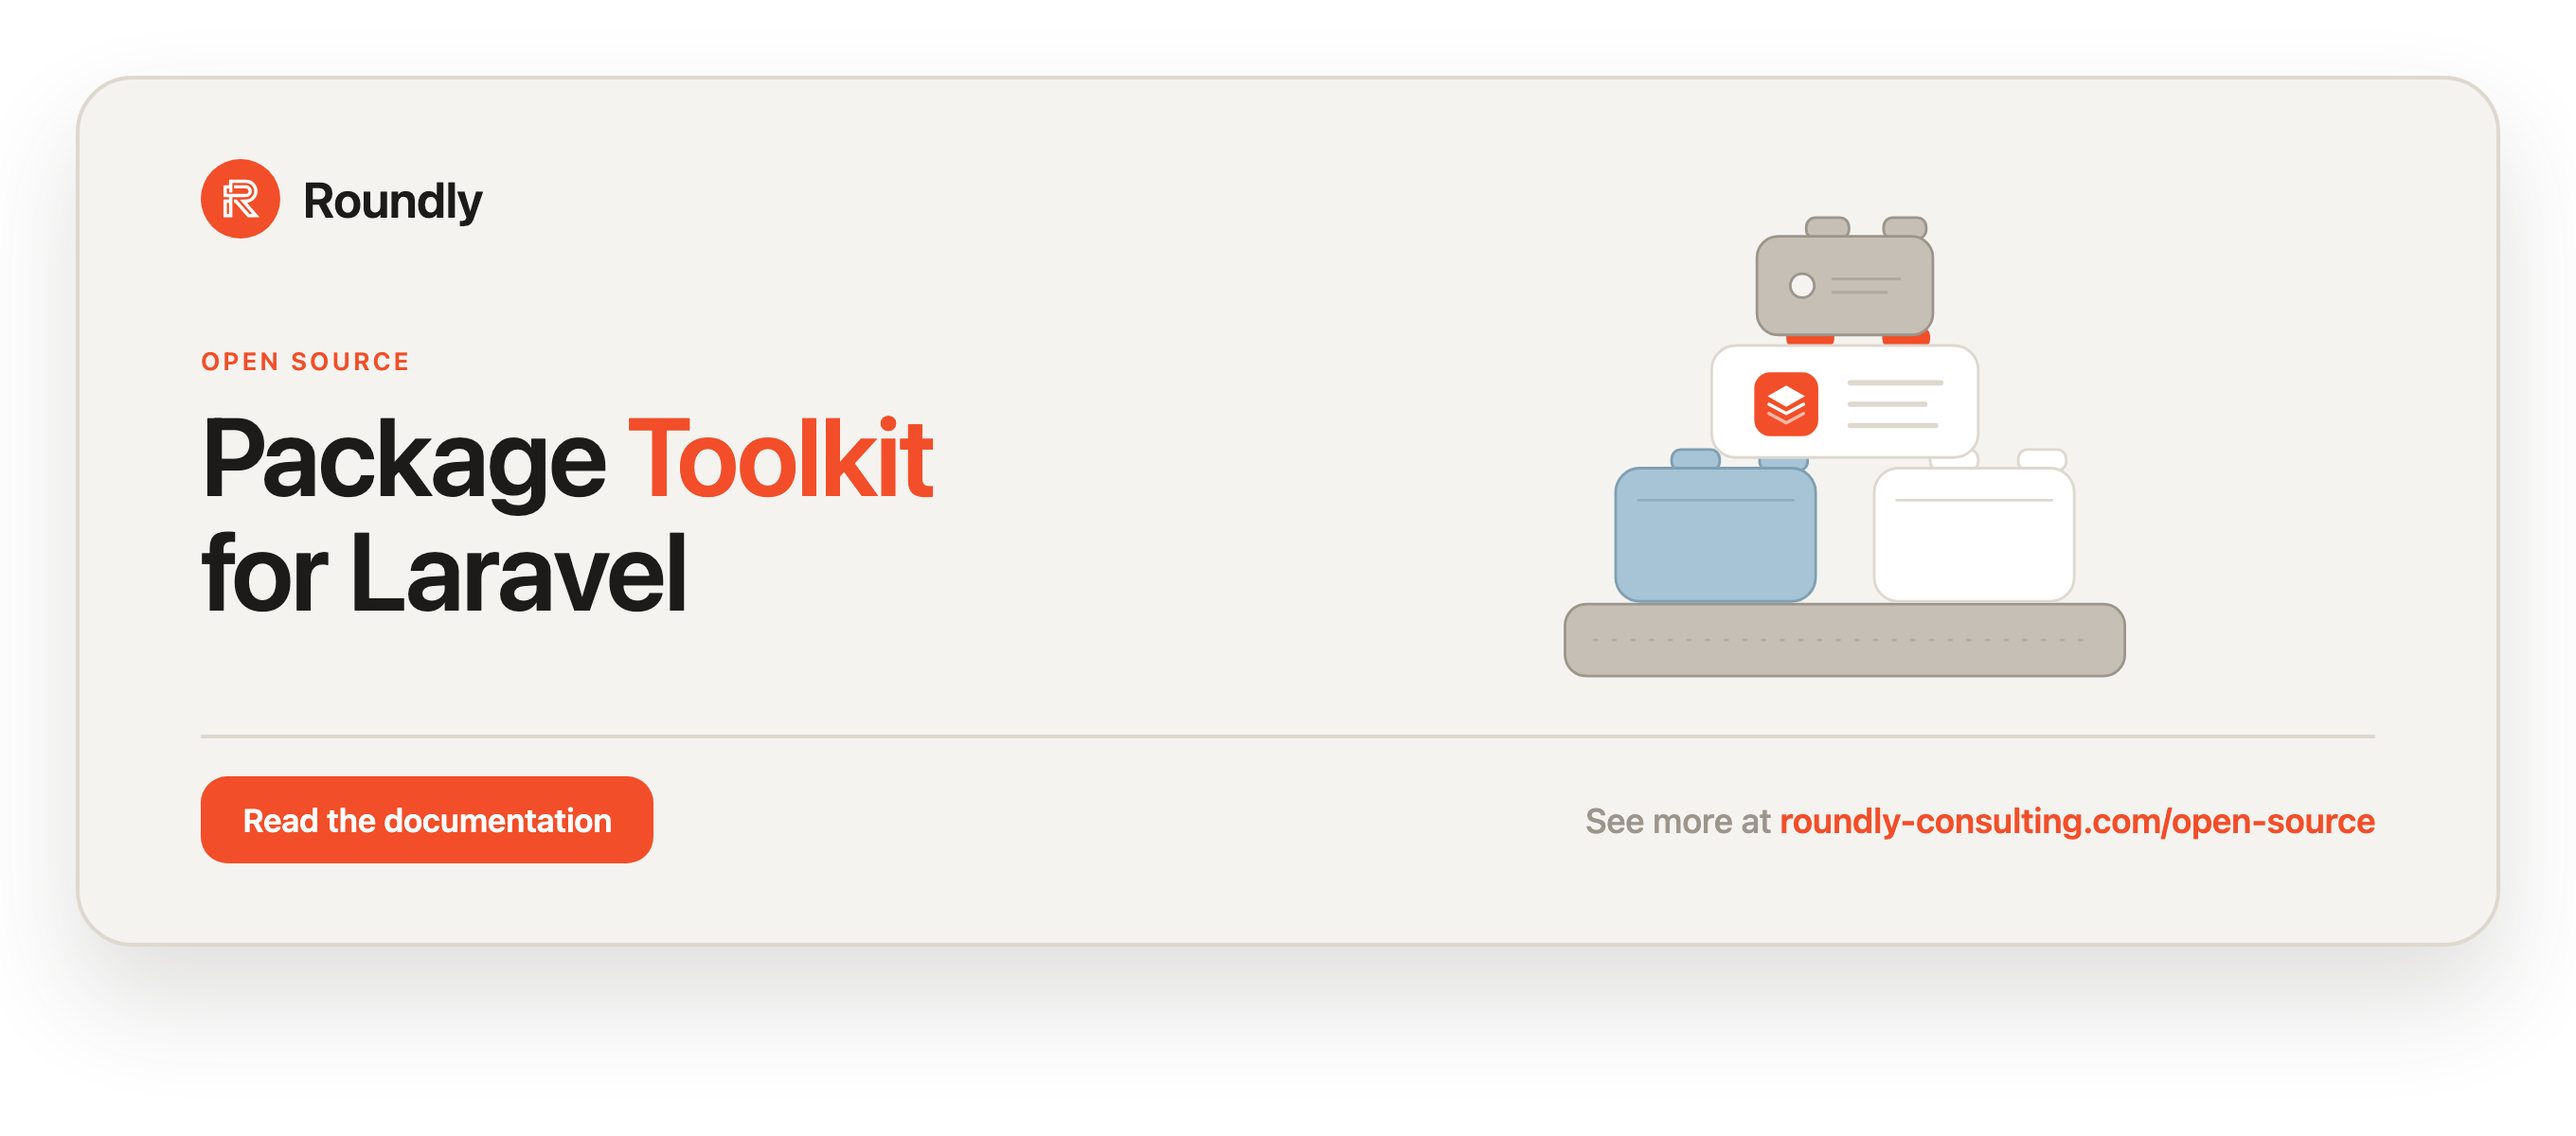
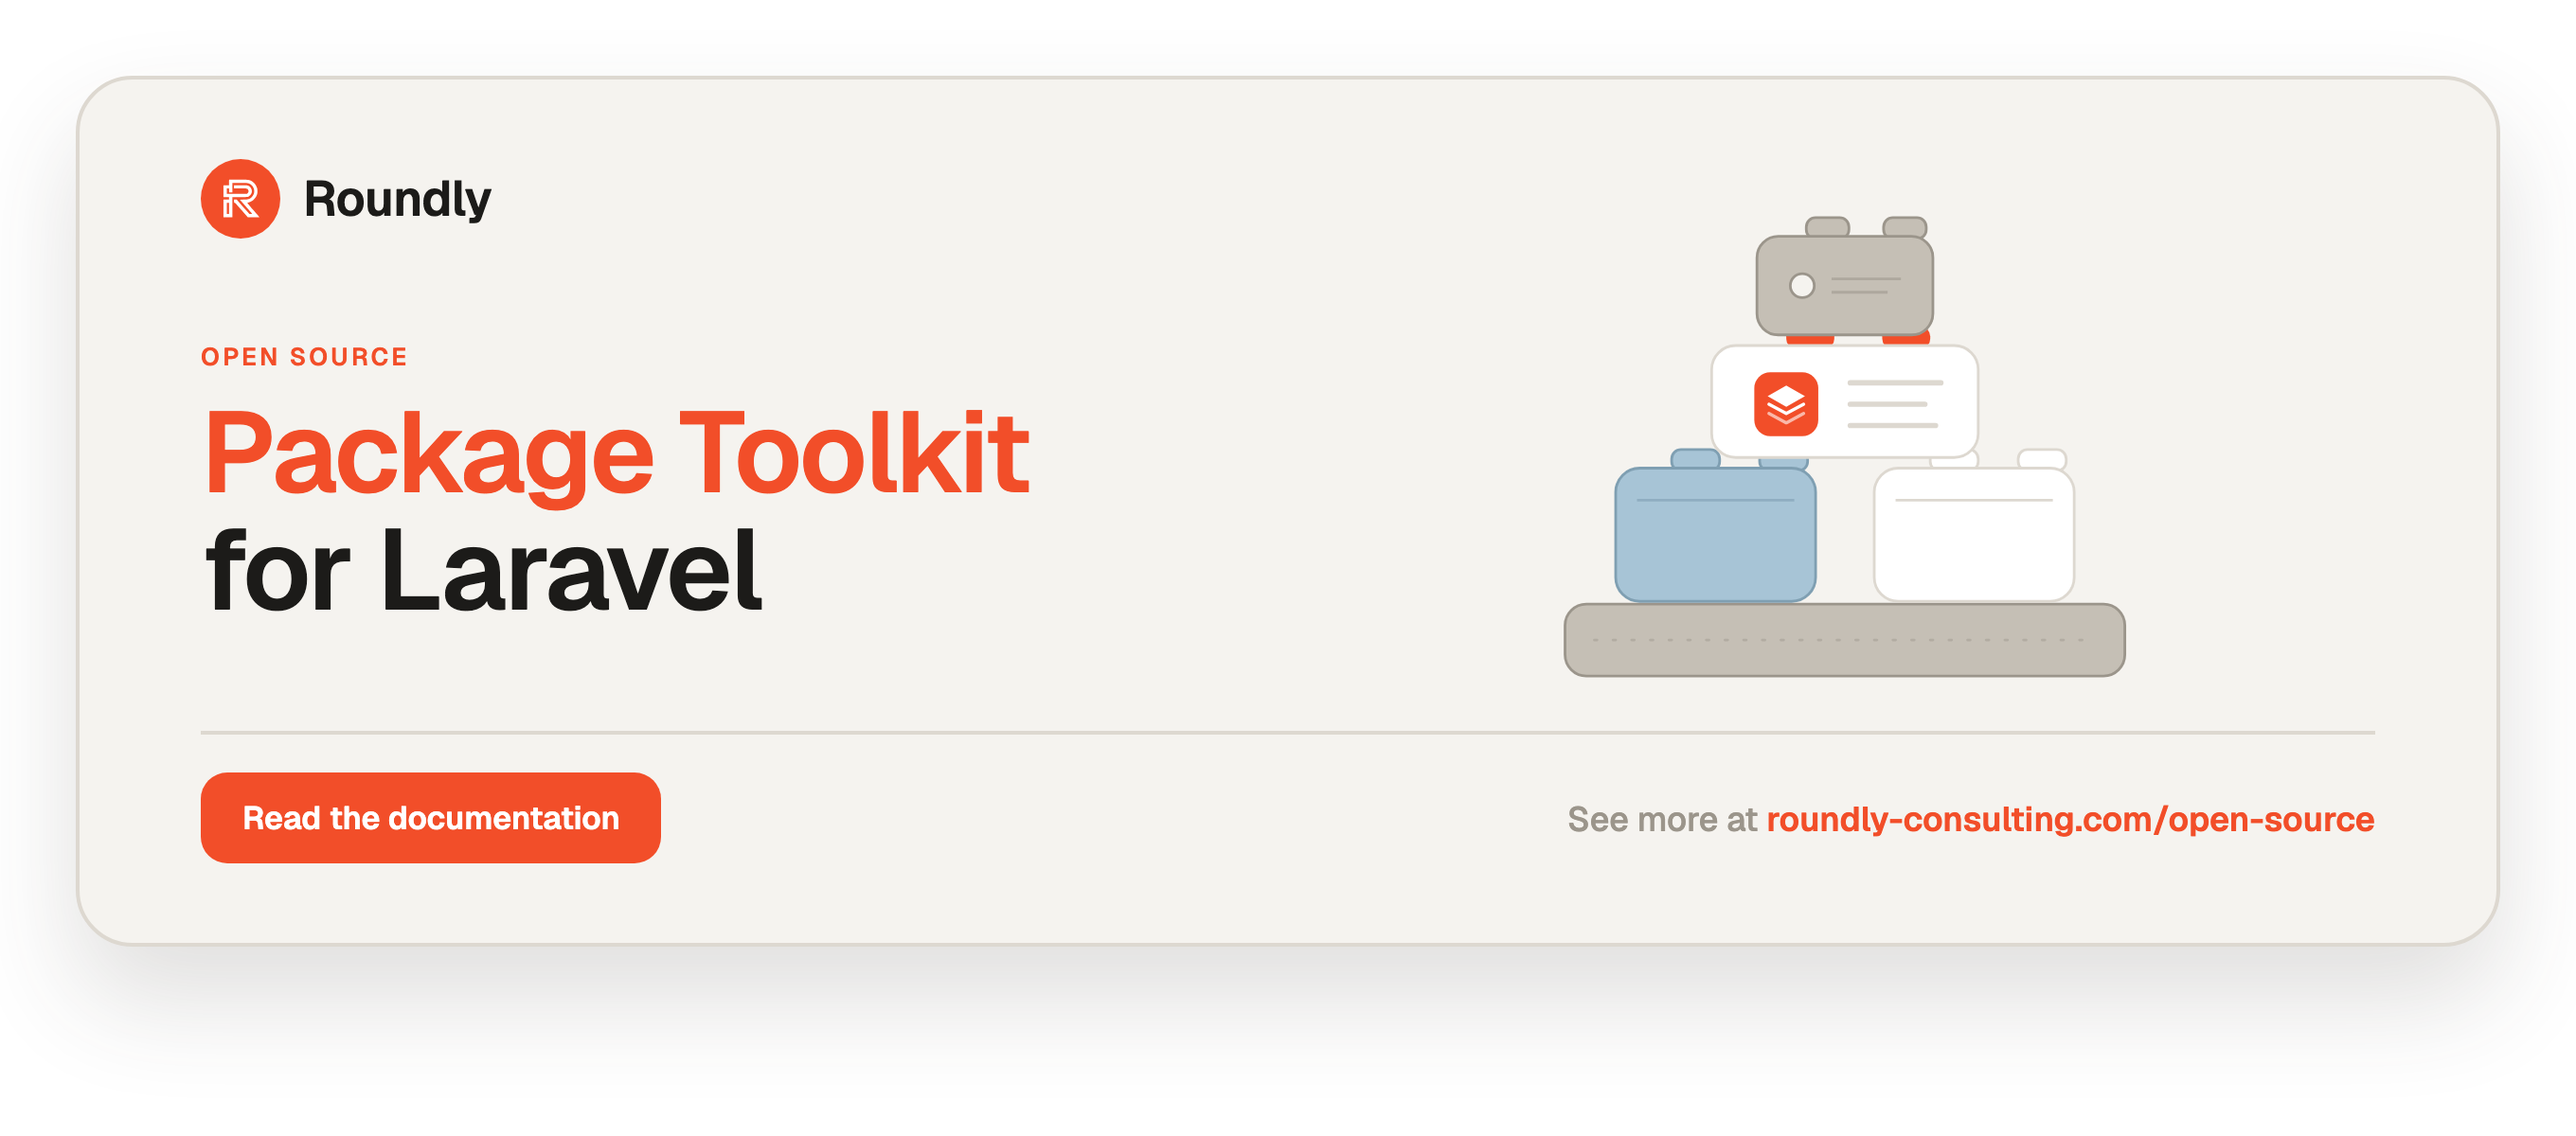
docs(art): put package name on one orange line

diff --git a/README.md b/README.md
@@ -1,8 +1,10 @@
+<!-- roundly-hero:start -->
 <p align="center">
-    <a href="https://roundly-consulting.com/open-source">
-        <img src="art/hero.png" alt="Package Toolkit for Laravel — Roundly open source" width="100%">
-    </a>
+  <a href="https://roundly-consulting.com/open-source/docs/package-toolkit-for-laravel?utm_source=github&utm_medium=readme&utm_campaign=open-source&utm_content=package-toolkit-for-laravel">
+    <img src="art/hero.png" alt="Package Toolkit for Laravel — Roundly open source" width="100%">
+  </a>
 </p>
+<!-- roundly-hero:end -->
 
 # Package Toolkit for Laravel
 
